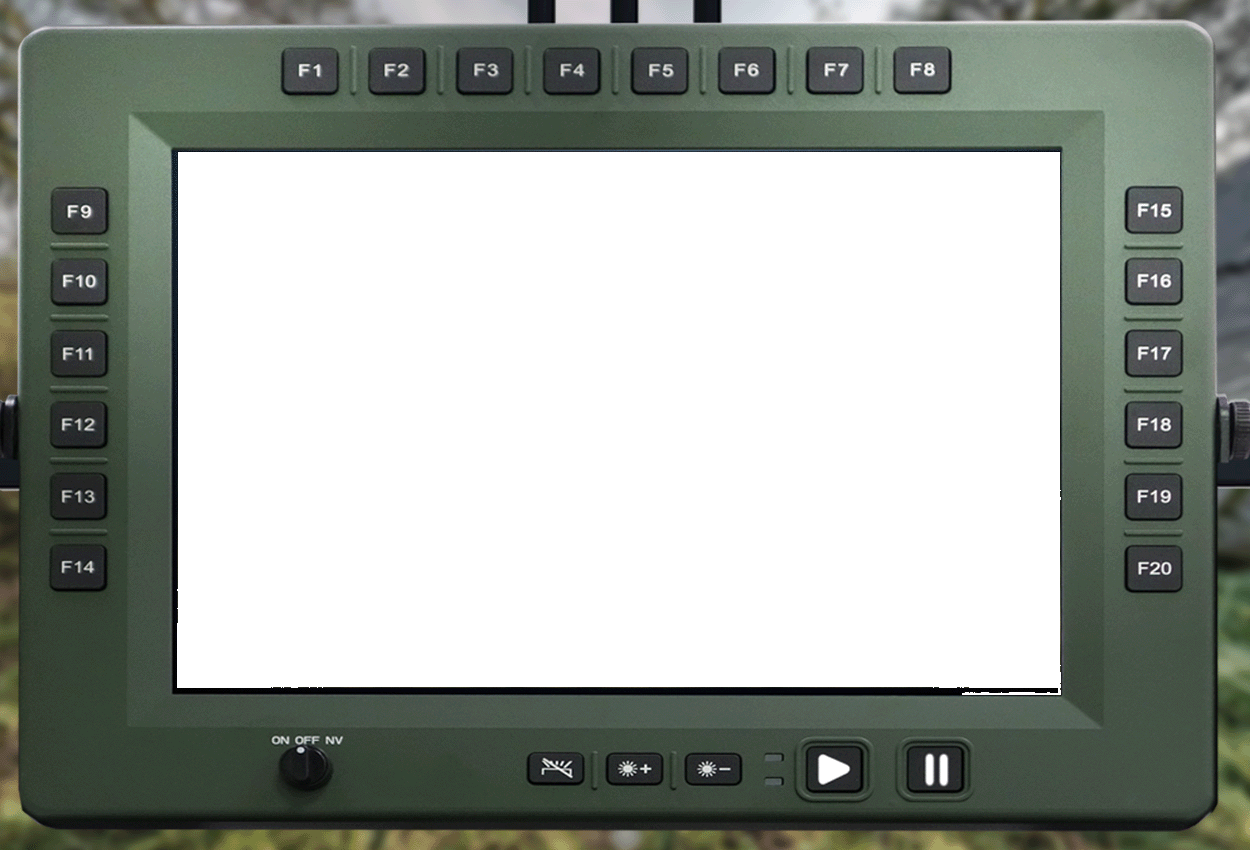
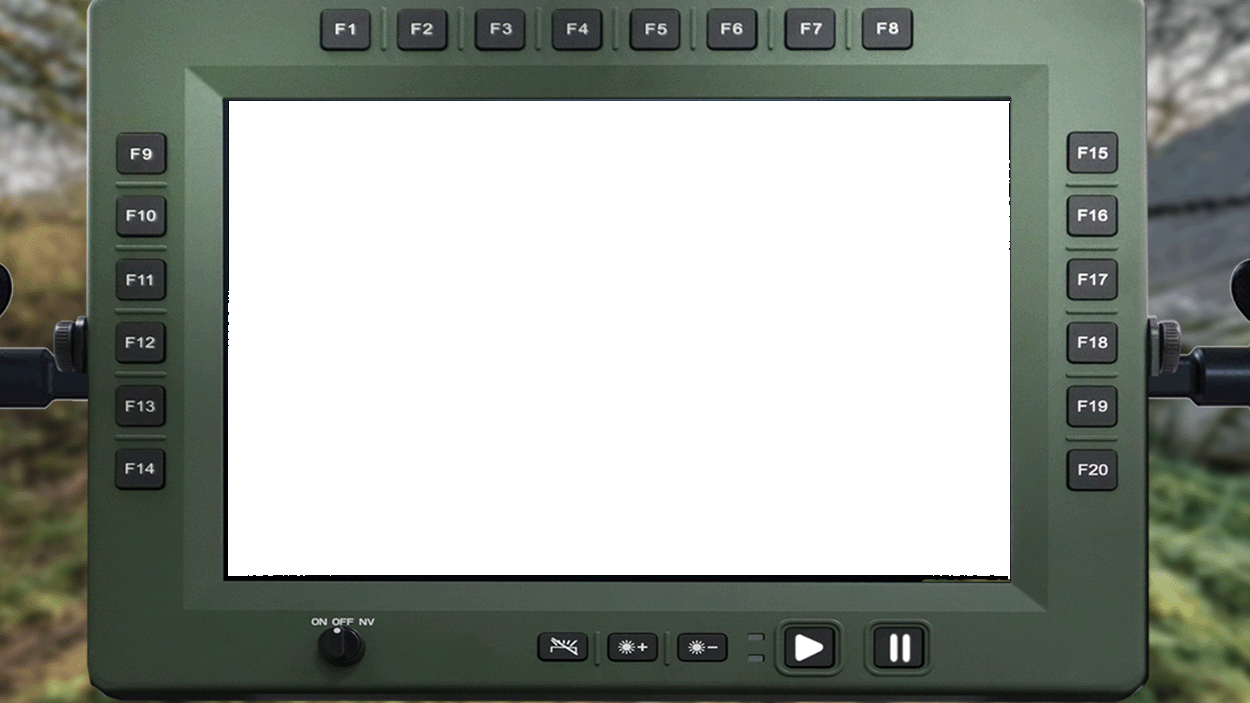
push

diff --git a/9-Other/Screen/style.css b/9-Other/Screen/style.css
@@ -2,16 +2,19 @@
 
 
 body {
+  /*
   background-image: url('');
   background-repeat: no-repeat;
   background-size: cover;
   background-color: rgb(0, 0, 0);
+  */
   justify-content: center;
   align-items: center;
   align-content: center;
   width: auto;
   height: 100vh;
   font-family: sans-serif;
+  padding: 0 auto;
 
 }
 
@@ -19,21 +22,24 @@ body {
   background-image: url('assets/fieldmonitor.png');
   background-repeat: no-repeat;
   background-size: contain;
-  width: 200vh;
+  width: calc(100vh * (16/9));
   height: 100vh;
   font-family: sans-serif; 
-
+  margin: 0;
+  border: solid 2px red;
+/*1250
+703*/
   
 }
 
 .insideMonitor {
   border: solid rgb(28, 0, 0) 2px;
   background-color:rgb(0, 16, 0);
-  width: 105vh;
-  height: 64vh;
+  width: 111vh;
+  height: 68vh;
   position: absolute;
-  left: 20vh;
-  top: 18vh;
+  left: 32vh;
+  top: 14vh;
   padding: 3vh;
   
 }
@@ -118,7 +124,7 @@ to{border-right-color: transparent;}
    
 }
 
-#formDiv {}
+#formDiv {display:block}
 #successDiv {display:hidden}
 
 .animaker {   
@@ -152,7 +158,7 @@ to{border-right-color: transparent;}
   opacity: 1;
 
         top: 13vh;
-        left: 8vw;
+        left: 19vh;
     
  
   border-radius: 5px;
@@ -178,12 +184,25 @@ to{border-right-color: transparent;}
       height: 6vh;
       border-radius: 1vh;
       position: absolute;
-      left: 95vh;
-      top: 87.5vh;
+      left: 111.5vh;
+      top: 89vh;
       background-color: rgba(255, 0, 234, 0.382);
       animation-name: strobing;
       animation-duration: 2s;
       animation-iteration-count: infinite;
+}
+
+.videoButtonPauseClass {
+  width: 7vh;
+  height: 6vh;
+  border-radius: 1vh;
+  position: absolute;
+  left: 124vh;
+  top: 89vh;
+  background-color: rgba(255, 0, 234, 0.382);
+  animation-name: strobing;
+  animation-duration: 2s;
+  animation-iteration-count: infinite;
 }
 
 @keyframes strobing {
@@ -192,18 +211,7 @@ to{border-right-color: transparent;}
   100% {background-color: rgba(255, 0, 234, 0.382);}
 }
 
-.videoButtonPauseClass {
-  width: 7vh;
-  height: 6vh;
-  border-radius: 1vh;
-  position: absolute;
-  left: 106.5vh;
-  top: 87.5vh;
-  background-color: rgba(255, 0, 234, 0.382);
-  animation-name: strobing;
-  animation-duration: 2s;
-  animation-iteration-count: infinite;
-}
+
 
 
 

diff --git a/9-Other/Screen/index.html b/9-Other/Screen/index.html
@@ -48,7 +48,7 @@
 
   
 <!---->
-<div id="formDiv" class="insideMonitor" style="">
+<div id="formDiv" class="insideMonitor" style="border: solid 0px red;">
 
   <form id="formForCode" class="code_input" style="border: solid blue 0px; width: 100%;">
   <h6 class="tvText">Agent, please let me know when you know the name of the trickster</h6>
@@ -56,8 +56,8 @@
 
   <hr style="background-color: rgba(10,255,0.70); border: rgba(10,255,0.70); height: 0.0vh;">
    
-  <input id="inputFirstName" class="inputClass" maxlength='3' type="text" inputmode="text" tabindex="1" style="width: 12vh;"/>
-  <input id="inputLastName" class="inputClass" maxlength='9' type="text" inputmode="text" tabindex="2" style="width: 36vh;"/>
+  <input id="inputFirstName" class="inputClass" maxlength='3' type="text" inputmode="text" tabindex="1" style="width: 15vh;"/>
+  <input id="inputLastName" class="inputClass" maxlength='9' type="text" inputmode="text" tabindex="2" style="width: 38vh; margin-left: 2vh;"/>
 
 
 <input type="button" class="buttonSubmit" onclick="codeInputting()" style="" value="SUBMIT">
